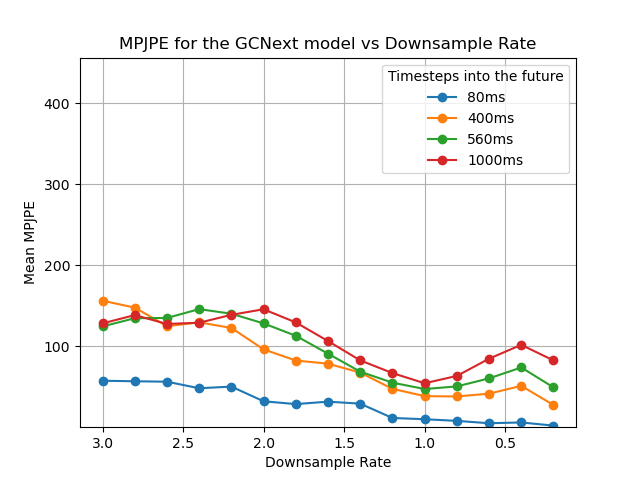
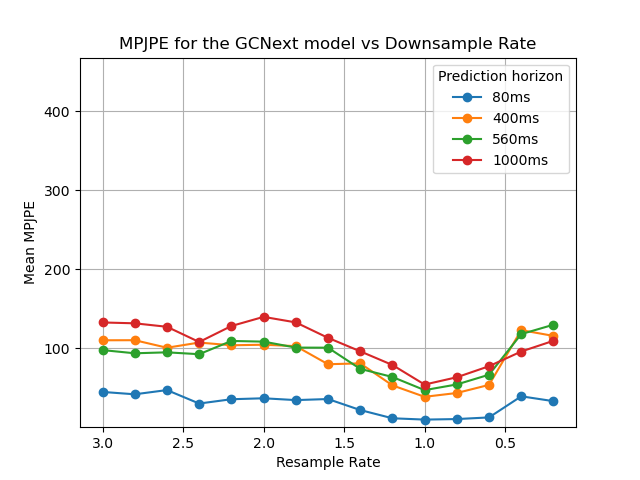
Remake the correct plots for different frequency, consistent target

diff --git a/exps/run/single_evaluate_physmop.py b/exps/run/single_evaluate_physmop.py
@@ -16,100 +16,179 @@ from tqdm import tqdm
 import torch.nn.functional as F
 
 
-time_idx = [1, 3, 13, 24] # Corresponds to idx*40 ms in the future
+
+import os
+
+
+time_idx = [2, 10, 14, 25]
 selected_indices = [t + config.hist_length - 1 for t in time_idx]
 
 ds = "AMASS" 
 if __name__ == "__main__":
-    realtime_model = RealtimePhysMop('ckpt/PhysMoP/2023_12_21-17_09_24_20364.pt', device='cpu')
-    # Option 2: Load only walking data
-    # print("\n=== Loading walking data only ===")
-    # walking_dataset = ActionAwareDataset(
-    #     'data/data_processed/h36m_test_50.pkl',
-    #     specific_action='walking'
-    # )
-    data_loader = DataLoader(dataset=BaseDataset_test(ds, config.DATASET_FOLDERS_TEST, config.hist_length, filter_str="treadmill_norm"),
-                                batch_size=1,
-                                shuffle=False,
-                                num_workers=8)
+    # Load in performance logs mpjpe_physmop_data.txt, mpjpe_physmop_physics.txt, mpjpe_physmop_fusion.txt if they exist and store in array
+
+    mpjpe_data_all = None
+    mpjpe_physics_gt_all = None
+    mpjpe_fusion_all = None
+
+    if os.path.exists("mpjpe_physmop_data.txt"):
+        mpjpe_data_all = np.loadtxt("mpjpe_physmop_data.txt", delimiter=",")
+    if os.path.exists("mpjpe_physmop_physics.txt"):
+        mpjpe_physics_gt_all = np.loadtxt("mpjpe_physmop_physics.txt", delimiter=",")
+    if os.path.exists("mpjpe_physmop_fusion.txt"):
+        mpjpe_fusion_all = np.loadtxt("mpjpe_physmop_fusion.txt", delimiter=",")
     
-    mpjpe_data_all = []
-    mpjpe_physics_gt_all = []
-    mpjpe_fusion_all = []
-    # Process first walking sample
-    for batch_idx, batch in enumerate(tqdm(data_loader, desc="Processing samples")):
-        # print(f"Action: {batch['action'][0]}")
-        # print(f"File: {batch['file_path'][0]}")
-        # print("Batch keys:", batch.keys())
-        # print("Root joint:", batch['q'][:, :25, :3])
-        # print(f"Batch shape: {batch['q'].shape}")
-        # print(f"Batch file paths: {batch['file_paths']}")
+    # Check if all three arrays were loaded
+    if mpjpe_data_all is not None and mpjpe_physics_gt_all is not None and mpjpe_fusion_all is not None:
+        print("Performance logs found.")
+        downsample_rates = np.arange(3, 0.1, -0.2)
+    
+    else:
+        print("Performance logs not found. Running evaluation...")
+
+        realtime_model = RealtimePhysMop('ckpt/PhysMoP/2023_12_21-17_09_24_20364.pt', device='cpu')
+        # Option 2: Load only walking data
+        # print("\n=== Loading walking data only ===")
+        # walking_dataset = ActionAwareDataset(
+        #     'data/data_processed/h36m_test_50.pkl',
+        #     specific_action='walking'
+        # )
+        data_loader = DataLoader(dataset=BaseDataset_test(ds, config.DATASET_FOLDERS_TEST, config.hist_length, filter_str="treadmill_norm"),
+                                    batch_size=1,
+                                    shuffle=False,
+                                    num_workers=8)
         
-        del batch['file_paths']
-
-        # Assume that the model always predicts the same number of frames, at the same frequency
-        normal_batch = {k: v[:, -config.total_length:, ...] if isinstance(v, torch.Tensor) else v for k, v in batch.items()}
-
-
-        downsample_rates = np.arange(3, 0.1, -0.2)  # From 3 to 0.1, step -0.2
-        mpjpe_data_results = []
-        mpjpe_physics_results = []
-        mpjpe_fusion_results = []
-
-        for downsample_rate in downsample_rates:
-            processed_batch = {}
-
-            if downsample_rate >= 1.0 or np.isclose(downsample_rate, 1.0):
-                # Downsample: select frames at intervals
-                start_index = 0
-                # Generate indices for downsampling
-                end_index = int(config.total_length * downsample_rate)
-                hist_indices = np.round(np.linspace(start_index, end_index, config.total_length)).astype(int)
-                processed_batch = {k: v[:, hist_indices, ...] if isinstance(v, torch.Tensor) else v for k, v in batch.items()}
+        mpjpe_data_all = []
+        mpjpe_physics_gt_all = []
+        mpjpe_fusion_all = []
+        # Process first walking sample
+        for batch_idx, batch in enumerate(tqdm(data_loader, desc="Processing samples")):
+            # print(f"Action: {batch['action'][0]}")
+            # print(f"File: {batch['file_path'][0]}")
+            # print("Batch keys:", batch.keys())
+            # print("Root joint:", batch['q'][:, :25, :3])
+            # print(f"Batch shape: {batch['q'].shape}")
+            # print(f"Batch file paths: {batch['file_paths']}")
             
-            elif downsample_rate < 1.0:
-                # Upsample: interpolate to more frames
-                upsample_factor = 1.0 / downsample_rate
+            del batch['file_paths']
+
+            # Assume that the model always predicts the same number of frames, at the same frequency
+            normal_batch = {k: v[:, -config.total_length:, ...] if isinstance(v, torch.Tensor) else v for k, v in batch.items()}
+
+
+            downsample_rates = np.arange(3, 0.1, -0.2)  # From 3 to 0.1, step -0.2
+            mpjpe_data_results = []
+            mpjpe_physics_results = []
+            mpjpe_fusion_results = []
+
+            for downsample_rate in downsample_rates:
                 processed_batch = {}
-                for k, v in batch.items():
-                    if k == 'q' and isinstance(v, torch.Tensor):
-                        v_spliced = v[:, :, ...]
-                        orig_time_steps = v_spliced.shape[1]
-                        new_time_steps = int(np.round(orig_time_steps * upsample_factor))
-                        v_perm = v_spliced.permute(0, 2, 1)  # [batch, features, time]
-                        v_upsampled = F.interpolate(v_perm, size=new_time_steps, mode='linear', align_corners=True)
-                        v_upsampled = v_upsampled.permute(0, 2, 1)  # [batch, time, features]
-                        processed_batch[k] = v_upsampled[:, :config.total_length, ...]
-                    else:
-                        processed_batch[k] = v[:, :config.total_length, ...]
 
-            model_output, batch_info = realtime_model.predict(processed_batch)
-            gt_J, pred_J_data, pred_J_physics_gt, pred_J_fusion = realtime_model.model_output_to_3D_joints(model_output, batch_info, mode='test')
+                input_len = config.hist_length
+                total_len = config.total_length
+                output_len = total_len - input_len
 
-            # visualize_continuous_motion(gt_J, title="Ground Truth Motion", skeleton_type="amass")
-            # visualize_motion_with_ground_truth(pred_J_data.cpu().detach().numpy(), gt_J.cpu().detach().numpy(), title="Predicted vs Ground Truth Motion (Data)",
-            #                                     skeleton_type="amass", save_gif_path="output_data_{}.gif".format(downsample_rate))
-            # visualize_motion_with_ground_truth(pred_J_physics_gt.cpu().detach().numpy(), gt_J.cpu().detach().numpy(), title="Predicted vs Ground Truth Motion (Physics)",
-            #                                     skeleton_type="amass", save_gif_path="output_physics_{}.gif".format(downsample_rate))
-            eval_results = realtime_model.evaluation_metrics(gt_J, pred_J_data, pred_J_physics_gt, pred_J_fusion)
+                if downsample_rate >= 1.0 or np.isclose(downsample_rate, 1.0):
+                    # Downsample only the input part, then take the next output_len frames at original rate
+                    # Compute how many source frames we need for the input
+                    src_input_span = int(np.round(input_len * downsample_rate))
+
+                    # choose a start index in the original batch time axis (here 0 -> start of sequence)
+                    start_index = 0
+                    input_src_end = start_index + src_input_span - 1
+
+                    # build input indices (evenly spaced over the source span)
+                    input_indices = np.round(np.linspace(start_index, input_src_end, input_len)).astype(int)
+
+                    for k, v in batch.items():
+                        if not isinstance(v, torch.Tensor):
+                            processed_batch[k] = v
+                            continue
+
+                        # time axis is axis=1: [batch, time, ...]
+                        max_t = v.shape[1] - 1
+                        input_indices_clipped = np.clip(input_indices, 0, max_t)
+
+                        # last input index (in source)
+                        last_input_idx = int(input_indices_clipped[-1])
+                        # output indices are the next output_len frames at the original sampling rate
+                        output_indices = np.arange(last_input_idx + 1, last_input_idx + 1 + output_len)
+                        output_indices = np.clip(output_indices, 0, max_t)
+
+                        # gather and concatenate along time axis
+                        # use torch.index_select for tensors
+                        in_sel = torch.index_select(v, 1, torch.from_numpy(input_indices_clipped).to(v.device))
+                        out_sel = torch.index_select(v, 1, torch.from_numpy(output_indices).to(v.device))
+                        processed_batch[k] = torch.cat([in_sel, out_sel], dim=1)
+
+                else:
+                    # Upsample input: interpolate the input portion, then take following output frames
+                    upsample_factor = 1.0 / downsample_rate
+                    for k, v in batch.items():
+                        if not isinstance(v, torch.Tensor):
+                            processed_batch[k] = v
+                            continue
+
+                        # take the original input slice (first input_len frames of the available sequence)
+                        src_input = v[:, :input_len, ...]  # [B, input_len, ...]
+                        # prepare for interpolation: [B, features, time]
+                        b, t = src_input.shape[0], src_input.shape[1]
+                        rest_shape = src_input.shape[2:]
+                        feat = int(np.prod(rest_shape))
+                        src_perm = src_input.reshape(b, t, feat).permute(0, 2, 1)  # [B, feat, time]
+                        new_time = int(np.round(t * upsample_factor))
+                        # interpolate per-batch by looping (F.interpolate expects 3D or 4D; do each batch separately)
+                        upsampled = []
+                        for bi in range(b):
+                            up = F.interpolate(src_perm[bi:bi+1], size=new_time, mode='linear', align_corners=True)
+                            upsampled.append(up)
+                        upsampled = torch.cat(upsampled, dim=0)  # [B, feat, new_time]
+                        up_perm = upsampled.permute(0, 2, 1).reshape(b, new_time, *rest_shape)
+                        # take last input_len frames of upsampled (or pad/truncate)
+                        up_input = up_perm[:, -input_len:, ...]
+
+                        # keep original output frames after the original input_end
+                        original_last_input_idx = input_len - 1
+                        output_indices = np.arange(original_last_input_idx + 1, original_last_input_idx + 1 + output_len)
+                        output_indices = np.clip(output_indices, 0, v.shape[1] - 1)
+                        out_sel = torch.index_select(v, 1, torch.from_numpy(output_indices).to(v.device))
+
+                        processed_batch[k] = torch.cat([up_input, out_sel], dim=1)
+
+                # now processed_batch contains input (resampled) + original-rate output for feeding to model
+                model_output, batch_info = realtime_model.predict(processed_batch)
+                gt_J, pred_J_data, pred_J_physics_gt, pred_J_fusion = realtime_model.model_output_to_3D_joints(model_output, batch_info, mode='test')
+
+                # visualize_continuous_motion(gt_J, title="Ground Truth Motion", skeleton_type="amass", save_gif_path="output_data_{}.gif".format(downsample_rate))
+                # visualize_motion_with_ground_truth(pred_J_data.cpu().detach().numpy(), gt_J.cpu().detach().numpy(), title="Predicted vs Ground Truth Motion (Data)",
+                #                                     skeleton_type="amass", save_gif_path="output_data_{}.gif".format(downsample_rate))
+                # visualize_motion_with_ground_truth(pred_J_physics_gt.cpu().detach().numpy(), gt_J.cpu().detach().numpy(), title="Predicted vs Ground Truth Motion (Physics)",
+                #                                     skeleton_type="amass", save_gif_path="output_physics_{}.gif".format(downsample_rate))
+                eval_results = realtime_model.evaluation_metrics(gt_J, pred_J_data, pred_J_physics_gt, pred_J_fusion)
 
 
-            mpjpe_data = np.mean([eval_results['error_test_data_upper'][0], eval_results['error_test_data_lower'][0]], axis=0)
-            mpjpe_data_results.append(mpjpe_data[selected_indices])  # shape: (4,)
-            mpjpe_physics_gt = np.mean([eval_results['error_test_physics_gt_upper'][0], eval_results['error_test_physics_gt_lower'][0]], axis=0)
-            mpjpe_physics_results.append(mpjpe_physics_gt[selected_indices])  # shape: (4,)
-            mpjpe_fusion = np.mean([eval_results['error_test_fusion_upper'][0], eval_results['error_test_fusion_lower'][0]], axis=0)
-            mpjpe_fusion_results.append(mpjpe_fusion[selected_indices])  # shape: (4,)
-        mpjpe_data_all.append(np.array(mpjpe_data_results))  # shape: (num_downsample_rates, 4)
-        mpjpe_physics_gt_all.append(np.array(mpjpe_physics_results))  # shape: (num_downsample_rates, 4)
-        mpjpe_fusion_all.append(np.array(mpjpe_fusion_results))  # shape: (num_downsample_rates, 4)
+                mpjpe_data = np.mean([eval_results['error_test_data_upper'][0], eval_results['error_test_data_lower'][0]], axis=0)
+                mpjpe_data_results.append(mpjpe_data[selected_indices])  # shape: (4,)
+                mpjpe_physics_gt = np.mean([eval_results['error_test_physics_gt_upper'][0], eval_results['error_test_physics_gt_lower'][0]], axis=0)
+                mpjpe_physics_results.append(mpjpe_physics_gt[selected_indices])  # shape: (4,)
+                mpjpe_fusion = np.mean([eval_results['error_test_fusion_upper'][0], eval_results['error_test_fusion_lower'][0]], axis=0)
+                mpjpe_fusion_results.append(mpjpe_fusion[selected_indices])  # shape: (4,)
+            mpjpe_data_all.append(np.array(mpjpe_data_results))  # shape: (num_downsample_rates, 4)
+            mpjpe_physics_gt_all.append(np.array(mpjpe_physics_results))  # shape: (num_downsample_rates, 4)
+            mpjpe_fusion_all.append(np.array(mpjpe_fusion_results))  # shape: (num_downsample_rates, 4)
+            # break  # Process only the first sample for this evaluation
 
-    mpjpe_data_all = np.array(mpjpe_data_all)  # shape: (num_samples, num_downsample_rates, 4)
-    mpjpe_data_all = np.mean(mpjpe_data_all, axis=0)  # shape: (num_downsample_rates, 4)
-    mpjpe_physics_gt_all = np.array(mpjpe_physics_gt_all)  # shape: (num_samples, num_downsample_rates, 4)
-    mpjpe_physics_gt_all = np.mean(mpjpe_physics_gt_all, axis=0)  # shape: (num_downsample_rates, 4)
-    mpjpe_fusion_all = np.array(mpjpe_fusion_all)  # shape: (num_samples, num_downsample_rates, 4)
-    mpjpe_fusion_all = np.mean(mpjpe_fusion_all, axis=0)  # shape: (num_downsample_rates, 4)
+        mpjpe_data_all = np.array(mpjpe_data_all)  # shape: (num_samples, num_downsample_rates, 4)
+        mpjpe_data_all = np.mean(mpjpe_data_all, axis=0)  # shape: (num_downsample_rates, 4)
+        mpjpe_physics_gt_all = np.array(mpjpe_physics_gt_all)  # shape: (num_samples, num_downsample_rates, 4)
+        mpjpe_physics_gt_all = np.mean(mpjpe_physics_gt_all, axis=0)  # shape: (num_downsample_rates, 4)
+        mpjpe_fusion_all = np.array(mpjpe_fusion_all)  # shape: (num_samples, num_downsample_rates, 4)
+        mpjpe_fusion_all = np.mean(mpjpe_fusion_all, axis=0)  # shape: (num_downsample_rates, 4)
+
+        # Save performance logs
+        np.savetxt("mpjpe_physmop_data.txt", mpjpe_data_all, delimiter=",")
+        np.savetxt("mpjpe_physmop_physics.txt", mpjpe_physics_gt_all, delimiter=",")
+        np.savetxt("mpjpe_physmop_fusion.txt", mpjpe_fusion_all, delimiter=",")
 
     mjpe_gcnext_all = np.loadtxt("mpjpe_data_all.txt", delimiter=",")
 
@@ -148,12 +227,12 @@ if __name__ == "__main__":
         plt.figure()
         for i, label in enumerate(["80ms", "400ms", "560ms", "1000ms"]):
             plt.plot(downsample_rates, results[:, i], marker='o', label=label)
-        plt.xlabel('Downsample Rate')
+        plt.xlabel('Resample Rate')
         plt.ylabel('Mean MPJPE')
         plt.title(branch_titles[branch])
         plt.gca().invert_xaxis()
         plt.grid(True)
-        plt.legend(title='Timesteps into the future')
+        plt.legend(title='Prediction horizon')
         plt.ylim(y_limits)
         plt.savefig(branch_filenames[branch])
         plt.close()
